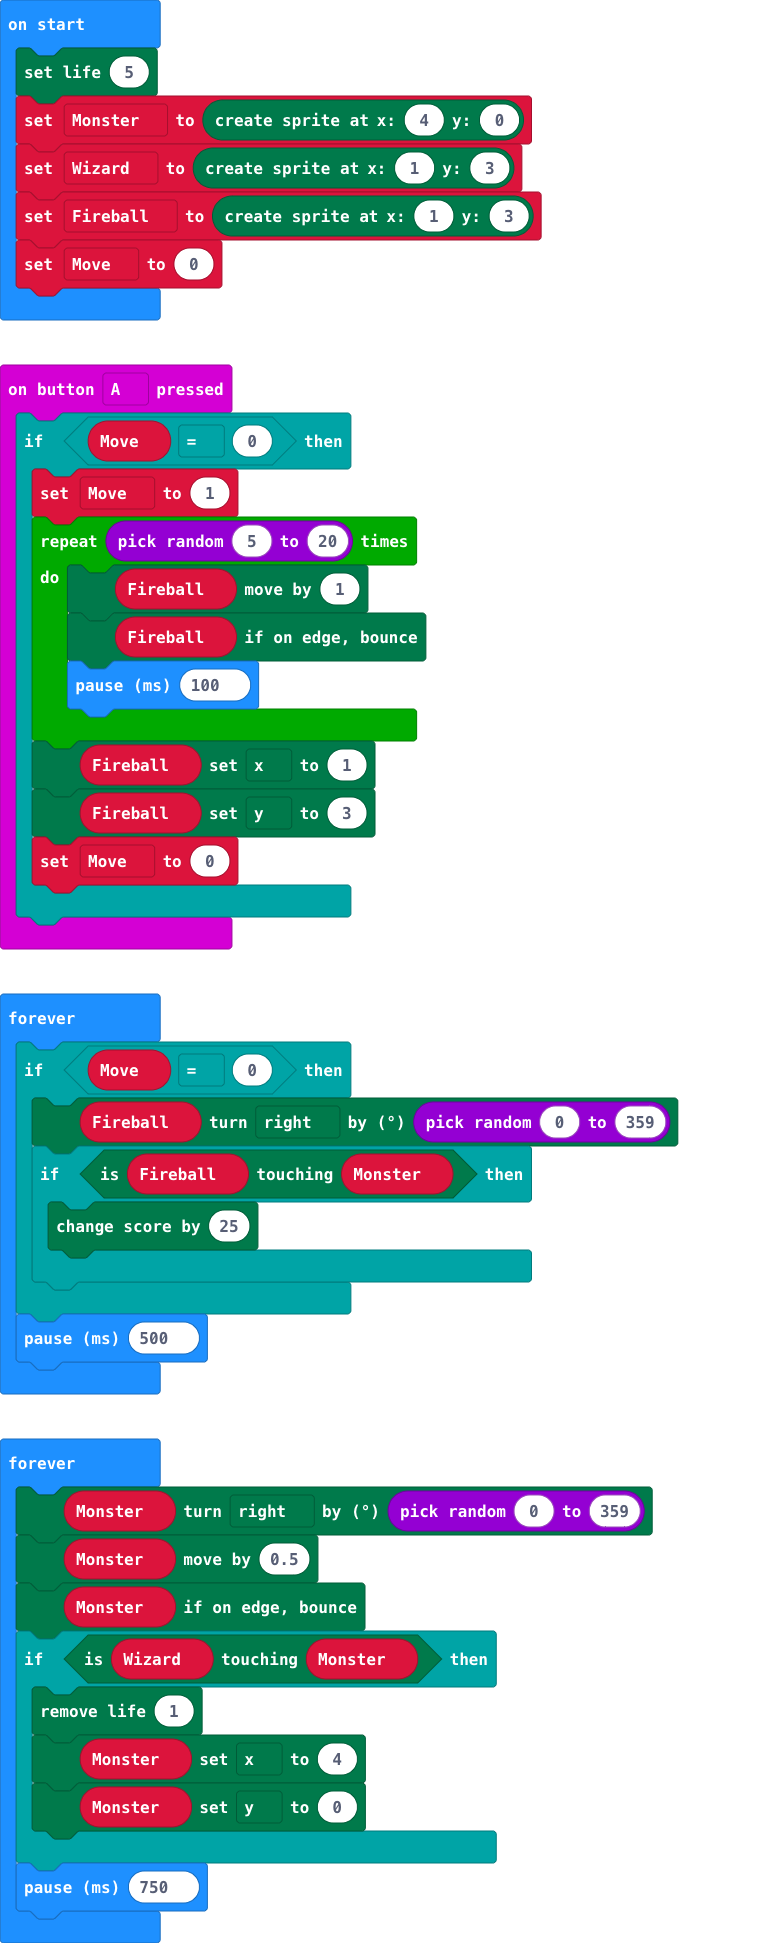
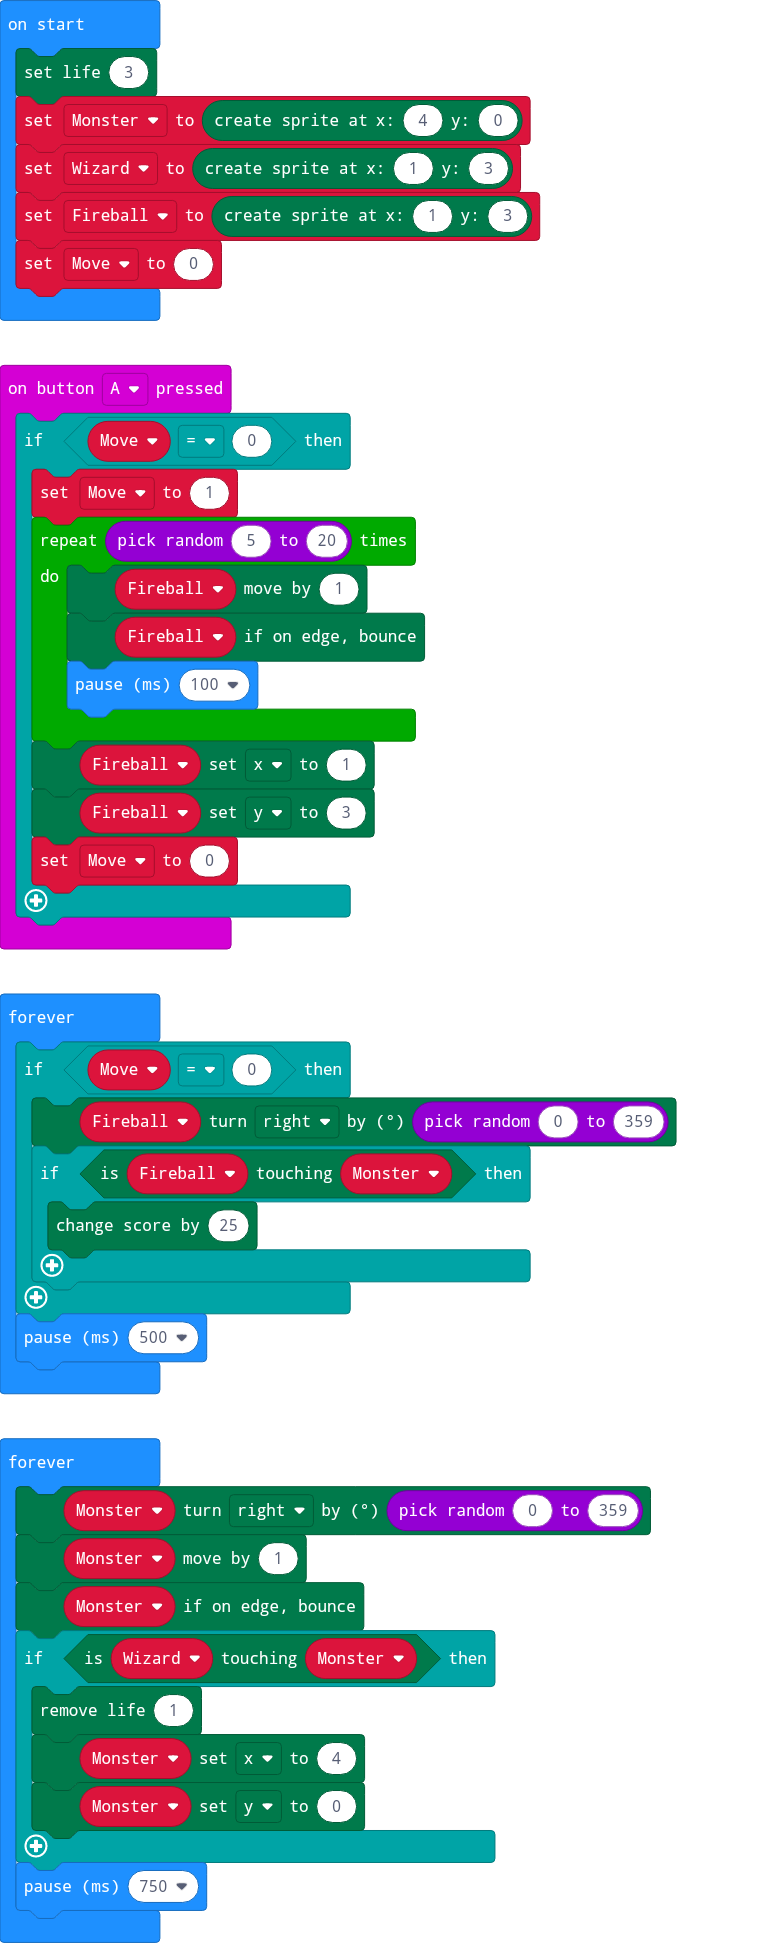
Update main.blocks, main.ts

diff --git a/main.ts b/main.ts
@@ -13,7 +13,7 @@ input.onButtonPressed(Button.A, function () {
 })
 let Move = 0
 let Fireball: game.LedSprite = null
-game.setLife(5)
+game.setLife(3)
 let Monster = game.createSprite(4, 0)
 let Wizard = game.createSprite(1, 3)
 Fireball = game.createSprite(1, 3)
@@ -29,7 +29,7 @@ basic.forever(function () {
 })
 basic.forever(function () {
     Monster.turn(Direction.Right, randint(0, 359))
-    Monster.move(0.5)
+    Monster.move(1)
     Monster.ifOnEdgeBounce()
     if (Wizard.isTouching(Monster)) {
         game.removeLife(1)
